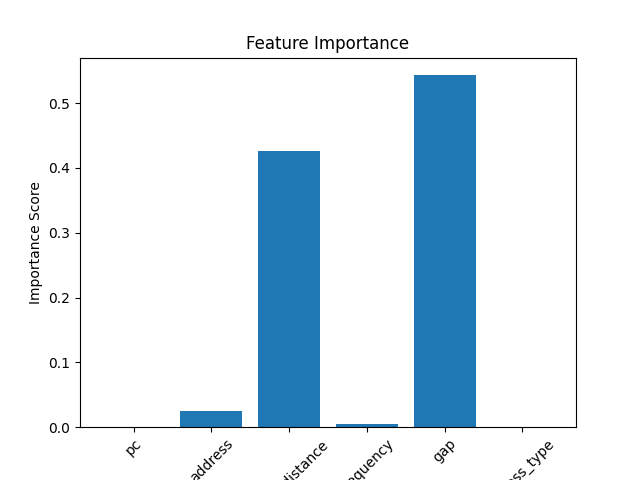
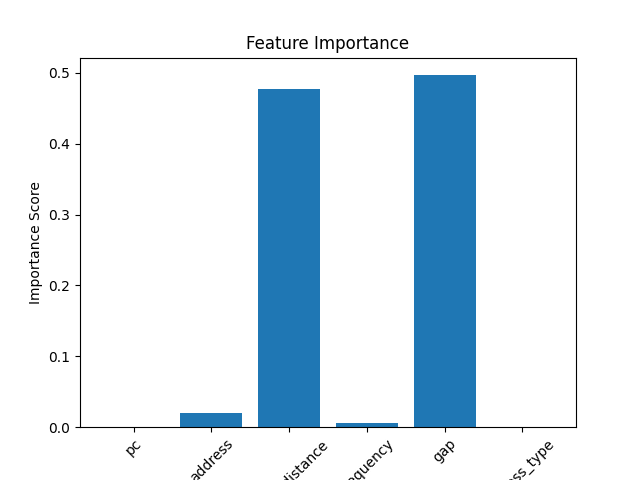
complete

diff --git a/src/cache_simulator.py b/src/cache_simulator.py
@@ -1,8 +1,8 @@
 from collections import OrderedDict
 import numpy as np
+from sklearn.ensemble import RandomForestClassifier
 
 from src.feature_engineering import load_dataset, preprocess_data
-from src.perceptron_model import Perceptron
 
 
 class LRUCache:
@@ -57,7 +57,7 @@ def simulate_ml(trace, model, cache_size=256):
             row["access_type"]
         ])
 
-        ml_prediction = model.predict([features])[0]
+        prediction = model.predict([features])[0]
 
         if address in cache:
             hits += 1
@@ -68,7 +68,7 @@ def simulate_ml(trace, model, cache_size=256):
 
             if len(cache) >= cache_size:
 
-                if ml_prediction == 1:
+                if prediction == 1:
                     cache.popitem(last=False)
 
             cache[address] = True
@@ -97,7 +97,6 @@ def simulate_hybrid(trace, model, cache_size=256):
 
         ml_prediction = model.predict([features])[0]
 
-        # heuristic rule
         heuristic_prediction = 1 if row["reuse_distance"] <= 10 else 0
 
         useful = 1 if (ml_prediction or heuristic_prediction) else 0
@@ -124,11 +123,16 @@ if __name__ == "__main__":
     # Load dataset
     df = load_dataset()
 
-    # Prepare ML features
+    # Prepare features
     X, y = preprocess_data(df)
 
-    # Train ML model
-    model = Perceptron()
+    # Train Random Forest model
+    model = RandomForestClassifier(
+        n_estimators=100,
+        max_depth=10,
+        random_state=42
+    )
+
     model.fit(X, y)
 
     # Run simulations
@@ -142,7 +146,7 @@ if __name__ == "__main__":
     print("Hits:", lru_hits)
     print("Misses:", lru_misses)
 
-    print("\nML Policy")
+    print("\nML Policy (Random Forest)")
     print("Hits:", ml_hits)
     print("Misses:", ml_misses)
 

diff --git a/experiments/cache_size_experiment.py b/experiments/cache_size_experiment.py
@@ -1,0 +1,58 @@
+import matplotlib.pyplot as plt
+from sklearn.ensemble import RandomForestClassifier
+
+from src.feature_engineering import load_dataset, preprocess_data
+from src.cache_simulator import simulate_lru, simulate_ml
+
+
+cache_sizes = [64, 128, 256, 512]
+
+lru_results = []
+ml_results = []
+
+df = load_dataset()
+
+X, y = preprocess_data(df)
+
+model = RandomForestClassifier(
+    n_estimators=100,
+    max_depth=10,
+    random_state=42
+)
+
+model.fit(X, y)
+
+for size in cache_sizes:
+
+    lru_hits, lru_misses = simulate_lru(df, cache_size=size)
+    ml_hits, ml_misses = simulate_ml(df, model, cache_size=size)
+
+    lru_hit_rate = lru_hits / (lru_hits + lru_misses)
+    ml_hit_rate = ml_hits / (ml_hits + ml_misses)
+
+    lru_results.append(lru_hit_rate)
+    ml_results.append(ml_hit_rate)
+
+    print(f"Cache Size {size}")
+    print("LRU Hit Rate:", lru_hit_rate)
+    print("ML Hit Rate:", ml_hit_rate)
+    print()
+
+
+plt.figure(figsize=(8,5))
+
+plt.plot(cache_sizes, lru_results, marker="o", linewidth=2, label="LRU")
+plt.plot(cache_sizes, ml_results, marker="o", linewidth=2, label="ML Predictor")
+
+plt.xlabel("Cache Size (Blocks)")
+plt.ylabel("Cache Hit Rate")
+
+plt.title("Cache Hit Rate vs Cache Size")
+
+plt.grid(True)
+
+plt.legend()
+
+plt.savefig("results/plots/cache_size_experiment.png", dpi=300)
+
+plt.show()
